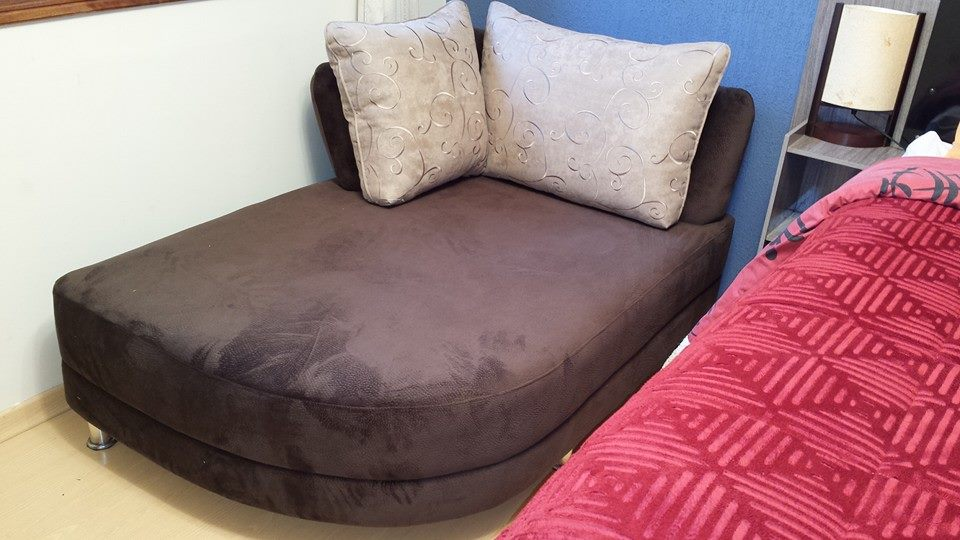
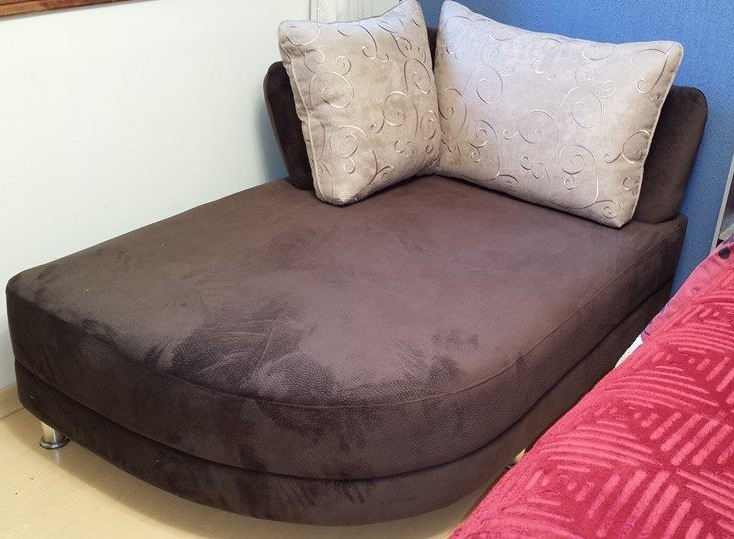
Adicionado novas fotos
Necessário alterar a descrição das fotos com maiores informações sobre
os produtos/tecidos.
Alterado o tamanho das fotos para não ficar tão deformado

diff --git a/Portfolio.html b/Portfolio.html
@@ -1,4 +1,4 @@
-<!DOCTYPE html PUBLIC "-//W3C//DTD XHTML 1.0 Transitional//EN" "http://www.w3.org/TR/xhtml1/DTD/xhtml1-transitional.dtd">
+<!DOCTYPE html PUBLIC "-//W3C//DTD XHTML 1.0 Transitional//EN" "http://www.w3.org/TR/xhtml1/DTD/xhtml1-transitional.dtd">
 <html xmlns="http://www.w3.org/1999/xhtml">
 
 <head>
@@ -102,6 +102,18 @@
 				<td class="thumb_col_right" >
 					<a href="Style/img/Estofados/couro_1.jpg" rel="prettyPhoto[portfolio]" title="Sofá com Almofadas em Couro Sintético" >
 						<img class="thumb_image" alt="Sofá com Almofadas em Couro Sintético" title="Sofá com Almofadas em Couro Sintético" src="Style/img/Estofados/couro_1.jpg" />
+					</a>
+				</td>
+			</tr>
+            <tr>
+				<td class="thumb_col_left" >
+					<a href="Style/img/Estofados/poltrona_1.jpg" rel="prettyPhoto[portfolio]" title="Poltrona" >
+						<img class="thumb_image" alt="Poltrona" title="Poltrona" src="Style/img/Estofados/poltrona_1.jpg" />
+					</a>
+				</td>
+				<td class="thumb_col_center" >
+					<a href="Style/img/Estofados/poltrona_2.jpg" rel="prettyPhoto[portfolio]" title="Poltrona" >
+						<img class="thumb_image" alt="Poltrona" title="Poltrona" src="Style/img/Estofados/poltrona_2.jpg" />
 					</a>
 				</td>
 			</tr>

diff --git a/Contato.html b/Contato.html
@@ -12,7 +12,7 @@
     <div class="main_bg">
         <div class="content">
 
-            <!-- MENU -->
+            <!-- MENU   -->
             <div class="navigation-wrap">
                 <div class="nav-right-corner"></div>
                 <ul id="menu-top-navigation" class="sf-menu">
